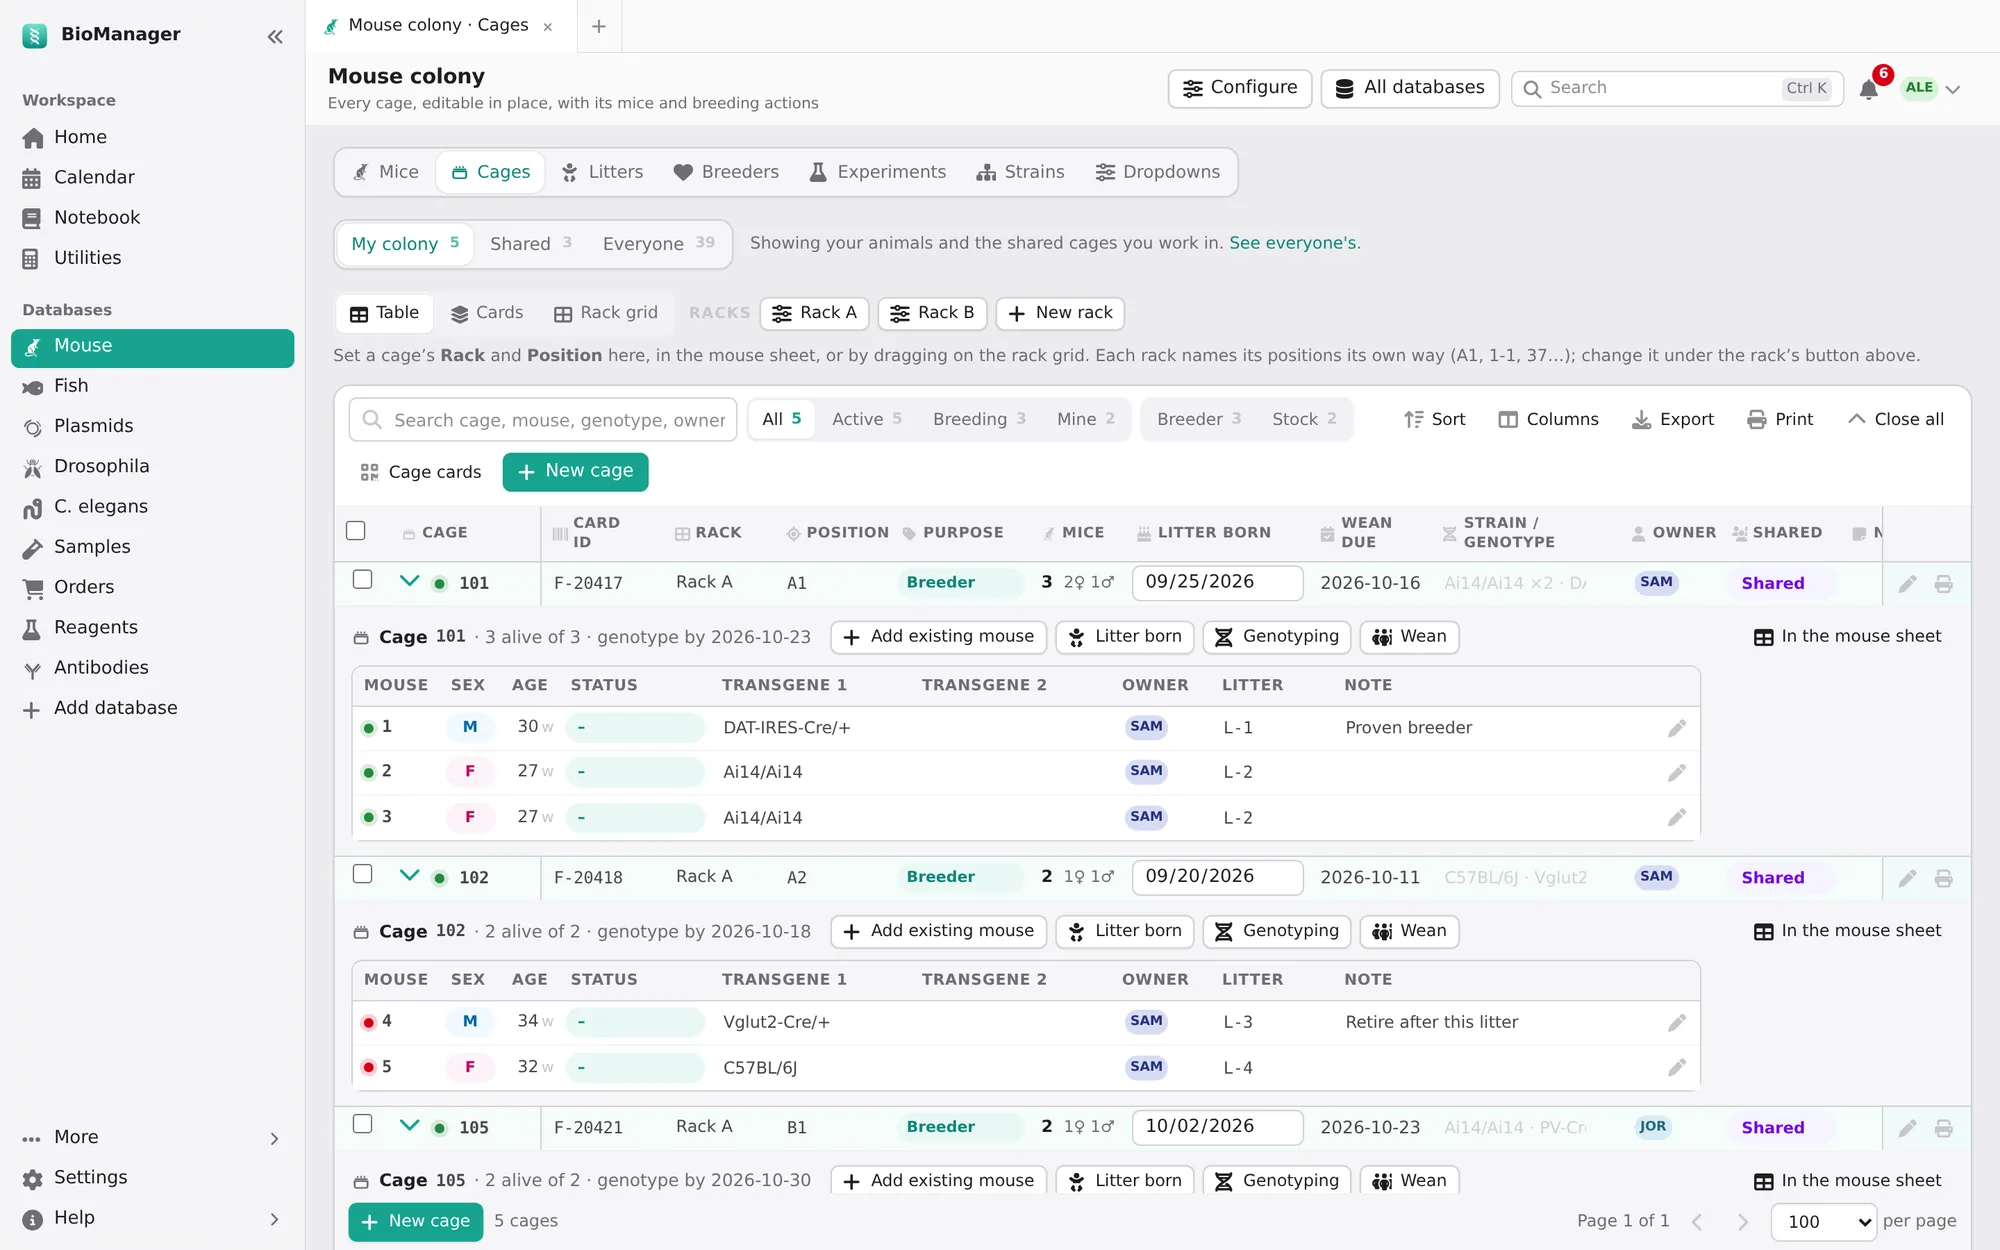
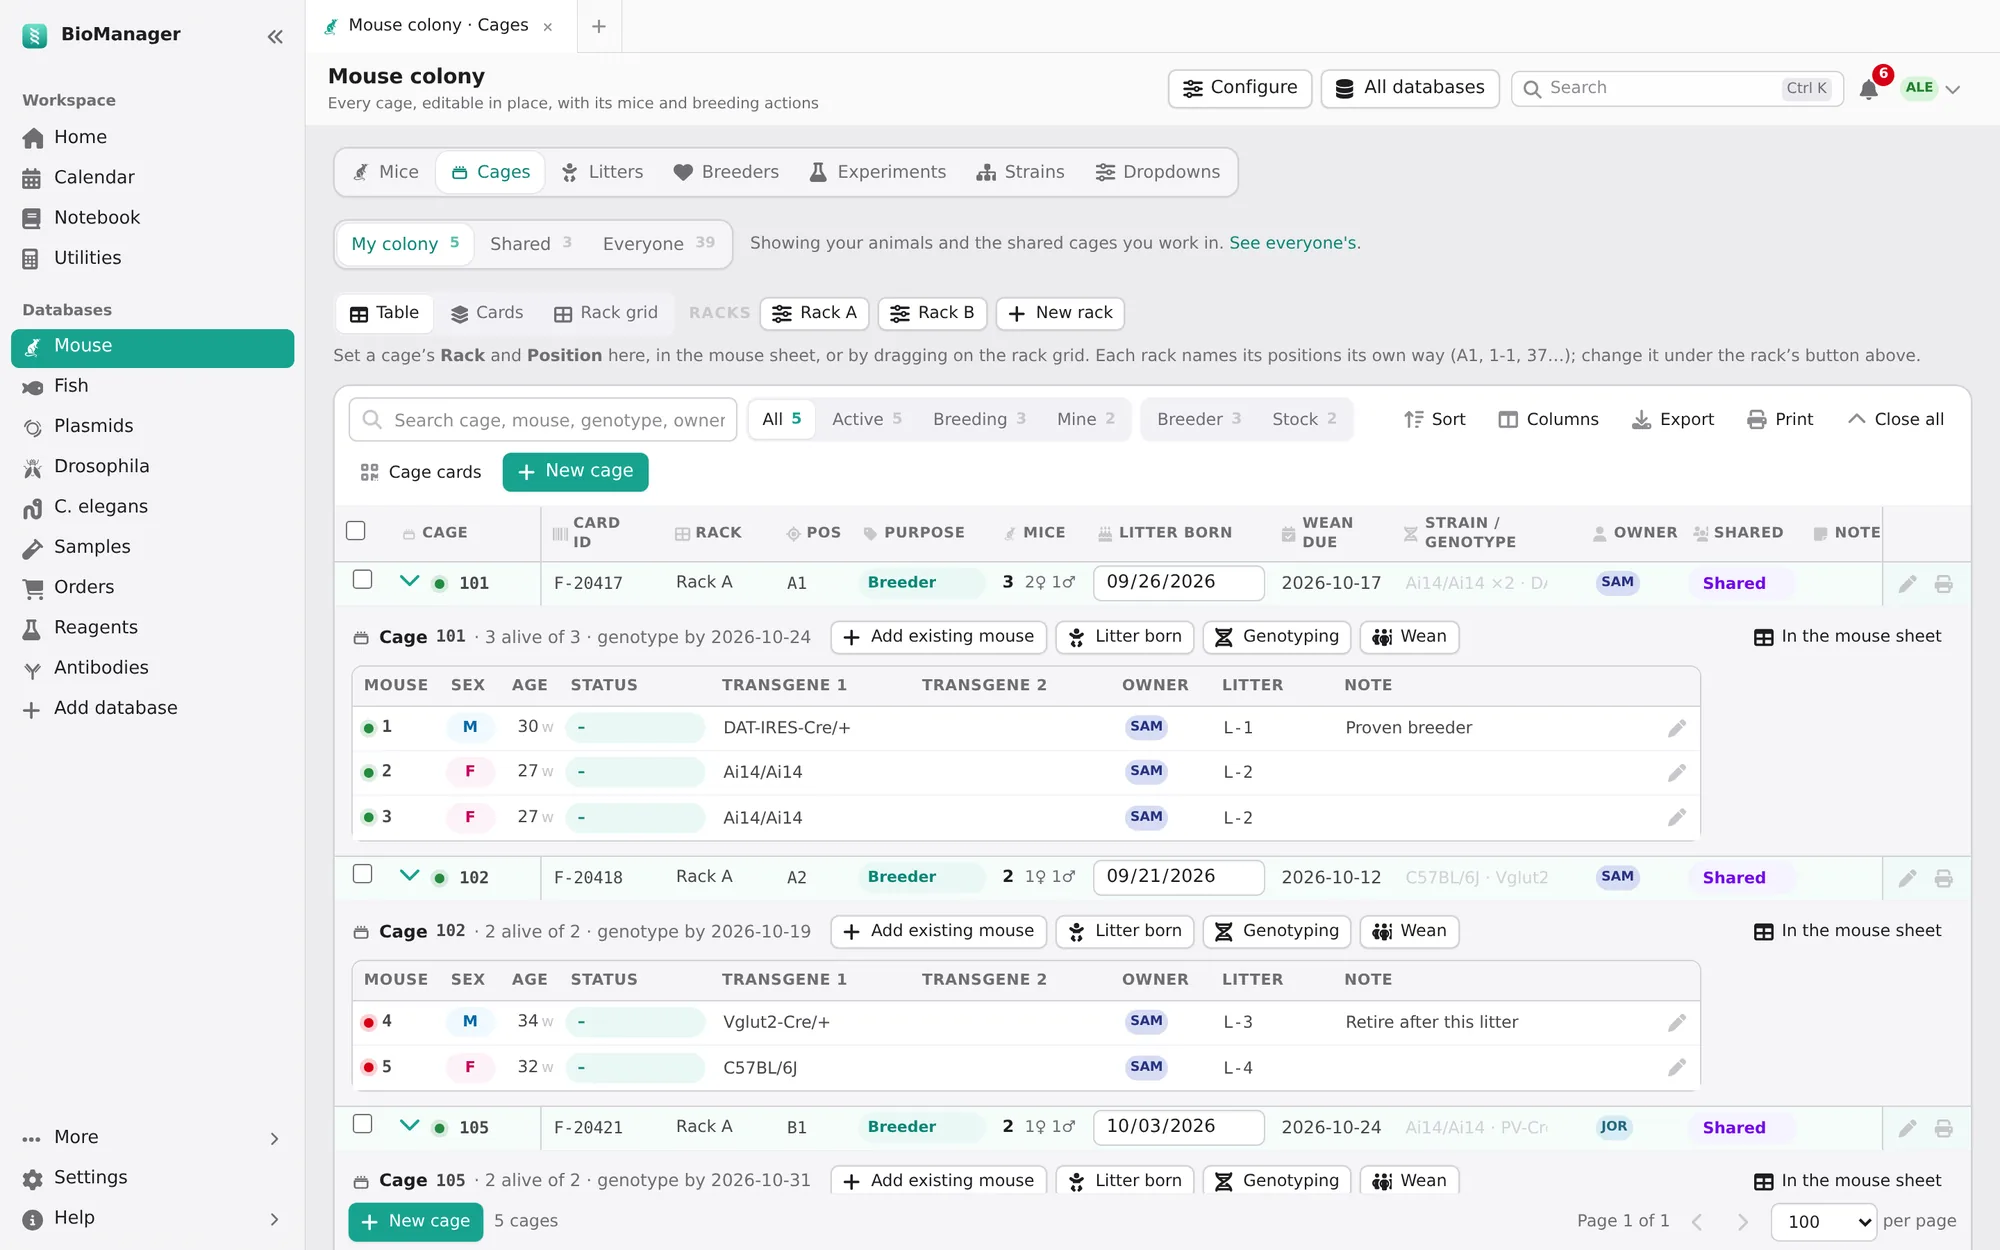
Position columns read Pos, and say Position on hover
The rack position column on the Mice and Cages tabs and on fish tanks
is headed Pos and is narrower, leaving room for the other columns.
Hovering it still explains it, and the Columns and Sort menus and a
phone's cards still call it Position.

Claude-Session: https://claude.ai/code/session_01F3KD7LCgyD4Lfny4qDkzLa

diff --git a/app/templates/colony.html b/app/templates/colony.html
@@ -192,8 +192,8 @@
                 <th class="dt-sortable" data-sort-key="cage_rack" style="width: 88px;" title="{{ _("The cage's rack") }}">
                   <span class="dt-col-head">{{ icon('grid', 'dt-col-icon') }}{{ _('Rack') }}<span class="dt-sort-indicator"></span></span>
                 </th>
-                <th class="dt-sortable" data-sort-key="cage_position" style="width: 72px;" title="{{ _("Position in the rack, named by the rack's scheme (e.g. D7)") }}">
-                  <span class="dt-col-head">{{ icon('position', 'dt-col-icon') }}{{ _('Position') }}<span class="dt-sort-indicator"></span></span>
+                <th class="dt-sortable" data-sort-key="cage_position" style="width: 56px;" data-dt-label="{{ _('Position') }}" title="{{ _("Position in the rack, named by the rack's scheme (e.g. D7)") }}">
+                  <span class="dt-col-head">{{ icon('position', 'dt-col-icon') }}{{ _('Pos') }}<span class="dt-sort-indicator"></span></span>
                 </th>
                 <th class="dt-sortable" data-sort-key="owner" style="width: 64px;">
                   <span class="dt-col-head">{{ icon('user', 'dt-col-icon') }}{{ _('Owner') }}<span class="dt-sort-indicator"></span></span>
@@ -568,8 +568,8 @@
                     <th class="dt-sortable" data-sort-key="rack_name" style="width: 80px;">
                       <span class="dt-col-head">{{ icon('grid', 'dt-col-icon') }}{{ _('Rack') }}<span class="dt-sort-indicator"></span></span>
                     </th>
-                    <th class="dt-sortable" data-sort-key="position" style="width: 84px;" title="{{ _("Position in the rack, named by the rack's scheme (e.g. D7)") }}">
-                      <span class="dt-col-head">{{ icon('position', 'dt-col-icon') }}{{ _('Position') }}<span class="dt-sort-indicator"></span></span>
+                    <th class="dt-sortable" data-sort-key="position" style="width: 56px;" data-dt-label="{{ _('Position') }}" title="{{ _("Position in the rack, named by the rack's scheme (e.g. D7)") }}">
+                      <span class="dt-col-head">{{ icon('position', 'dt-col-icon') }}{{ _('Pos') }}<span class="dt-sort-indicator"></span></span>
                     </th>
                     <th class="dt-sortable" data-sort-key="purpose" style="width: 100px;" title="{{ _('What the cage is for. A Breeder cage is shared with the lab unless its owner makes it personal') }}">
                       <span class="dt-col-head">{{ icon('tag', 'dt-col-icon') }}{{ _('Purpose') }}<span class="dt-sort-indicator"></span></span>

diff --git a/app/templates/zebrafish.html b/app/templates/zebrafish.html
@@ -117,9 +117,10 @@
   </div>
 {% endmacro %}
 
-{% macro col(key, icon_name, label, width=None, title=None, hidden=False, min=None) %}
+{% macro col(key, icon_name, label, width=None, title=None, hidden=False, min=None, full=None) %}
   <th {% if key %}class="dt-sortable" data-sort-key="{{ key }}"{% endif %}
       style="{% if width %}width: {{ width }}px;{% endif %}{% if min %} min-width: {{ min }}px;{% endif %}"
+      {% if full %}data-dt-label="{{ full }}"{% endif %}
       {% if title %}title="{{ title }}"{% endif %} {% if hidden %}data-default-hidden="1"{% endif %}>
     <span class="dt-col-head">{{ icon(icon_name, 'dt-col-icon') }}{{ label }}{% if key %}<span class="dt-sort-indicator"></span>{% endif %}</span>
   </th>
@@ -232,7 +233,7 @@
               <span class="dt-col-head">{{ icon('tank', 'dt-col-icon') }}{{ _('Tank') }}<span class="dt-sort-indicator"></span></span>
             </th>
             {{ col('rack', 'grid', zf('Rack'), 112) }}
-            {{ col('position', 'position', _('Position'), 72, _("Position in the rack, named by the rack's scheme")) }}
+            {{ col('position', 'position', _('Pos'), 56, _("Position in the rack, named by the rack's scheme"), full=_('Position')) }}
             {{ col('purpose', 'tag', _('Purpose'), 104, _('Breeding tanks are shared: anyone in the lab (or the project group it is shared with) can edit them')) }}
             {{ col('line', 'sitemap', _('Line'), 160) }}
             {{ col('fish', 'fish', zf('Fish'), 56, _('Live fish in the tank')) }}

diff --git a/app/static/data-table.js b/app/static/data-table.js
@@ -457,6 +457,9 @@
     }
 
     _columnLabel(th) {
+      // A header shortened to fit (Pos) names its column in full here, for
+      // the Columns and sort menus and a phone's cards.
+      if (th.dataset.dtLabel) return th.dataset.dtLabel;
       const head = th.querySelector('.dt-col-head');
       return (head ? head.textContent : th.textContent || '').replace(/\s+/g, ' ').trim();
     }

diff --git a/tests/test_colony_tabs.py b/tests/test_colony_tabs.py
@@ -231,6 +231,16 @@ class GiveBirthGenotypingTests(AppTestCase):
         pups = rows("select status, owner, cage_id_fk from mice where litter_id_fk=?", litter[0])
         self.assertEqual(pups, [("geno", self.member, cage)] * 3)
 
+    def test_position_columns_are_short_and_named_in_full(self):
+        self.make_cage(self.m)
+        for view, key in (("mice", "cage_position"), ("cages", "position")):
+            with self.subTest(view=view):
+                html = self.get_ok(self.m, f"/colony?view={view}")
+                th = re.search(r'<th[^>]*data-sort-key="' + key + r'"[^>]*>.*?</th>', html, re.S).group(0)
+                self.assertIn('data-dt-label="Position"', th)
+                self.assertIn('title="Position in the rack', th)
+                self.assertIn(">Pos<", th)
+
     def test_genotyping_dialog_says_what_to_type(self):
         self.make_cage(self.m, purpose="Breeder")
         html = self.get_ok(self.m, "/colony?view=cages")
